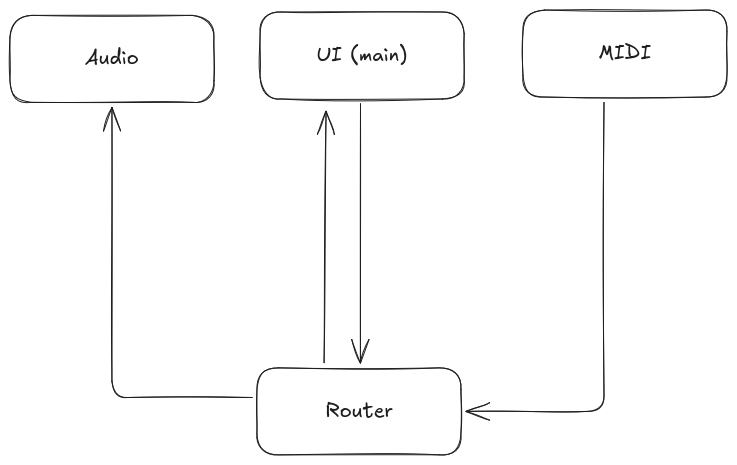
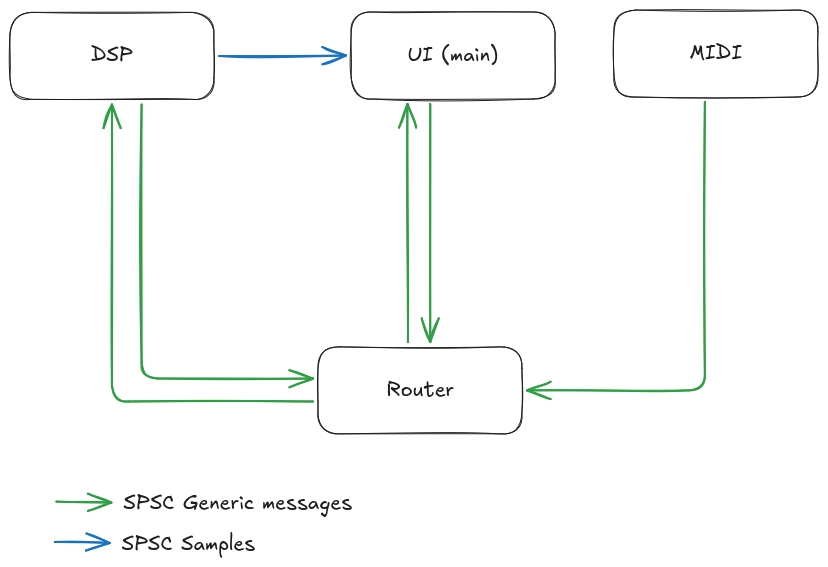
Fix run configs

diff --git a/docs/architecture.md b/docs/architecture.md
@@ -6,5 +6,5 @@
 
 Target architecture for messaging
 
-[![Architecture Diagram](./messaging.png)](https://excalidraw.com/#json=M8XCjT4piWYMHihvhThg8,OBe0vUzgCOfyq9K9XBsHgw)
+[![Architecture Diagram](./messaging.png)](https://excalidraw.com/#json=FuJIYmZH524LTBGHgVQTj,RQWThQZMkzSFd4_7GsldmA)
 
